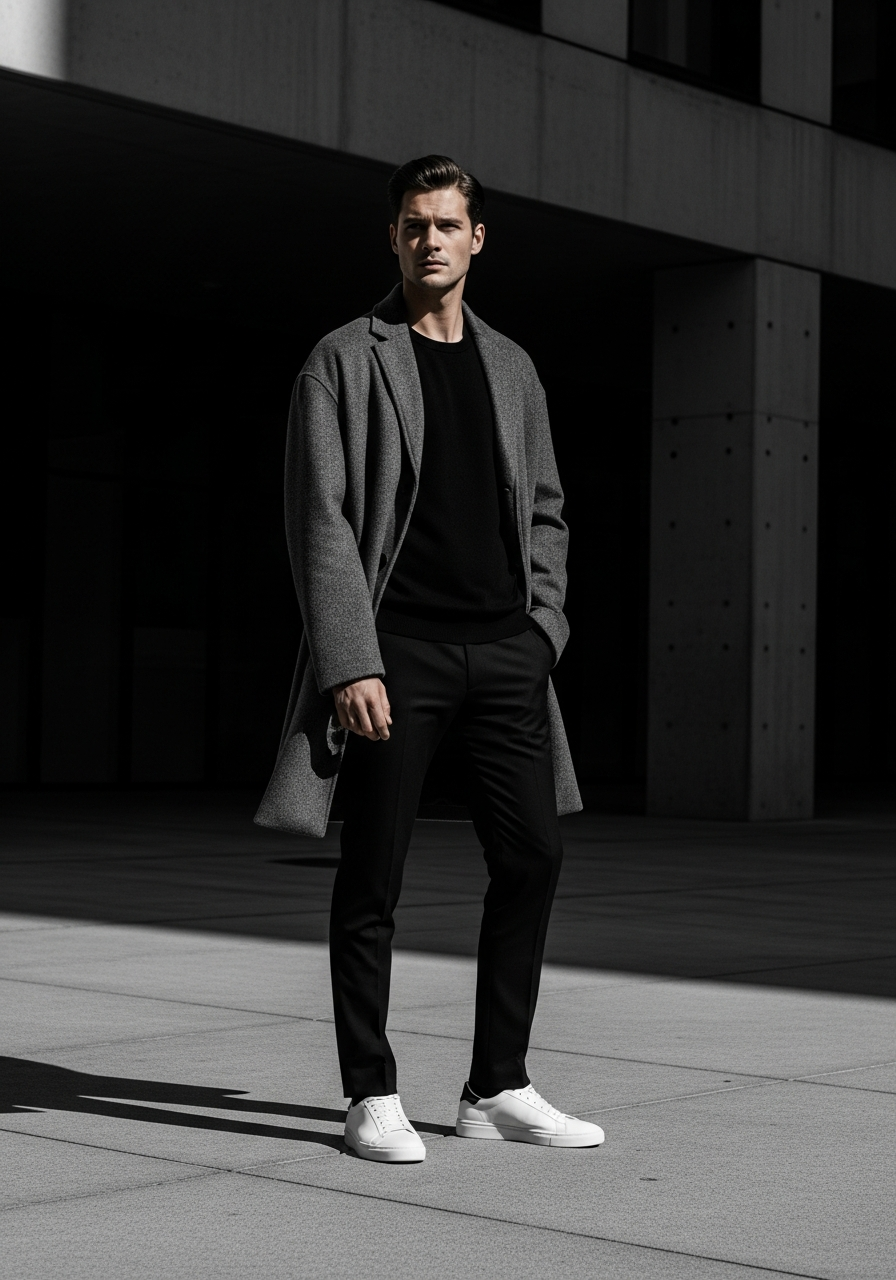
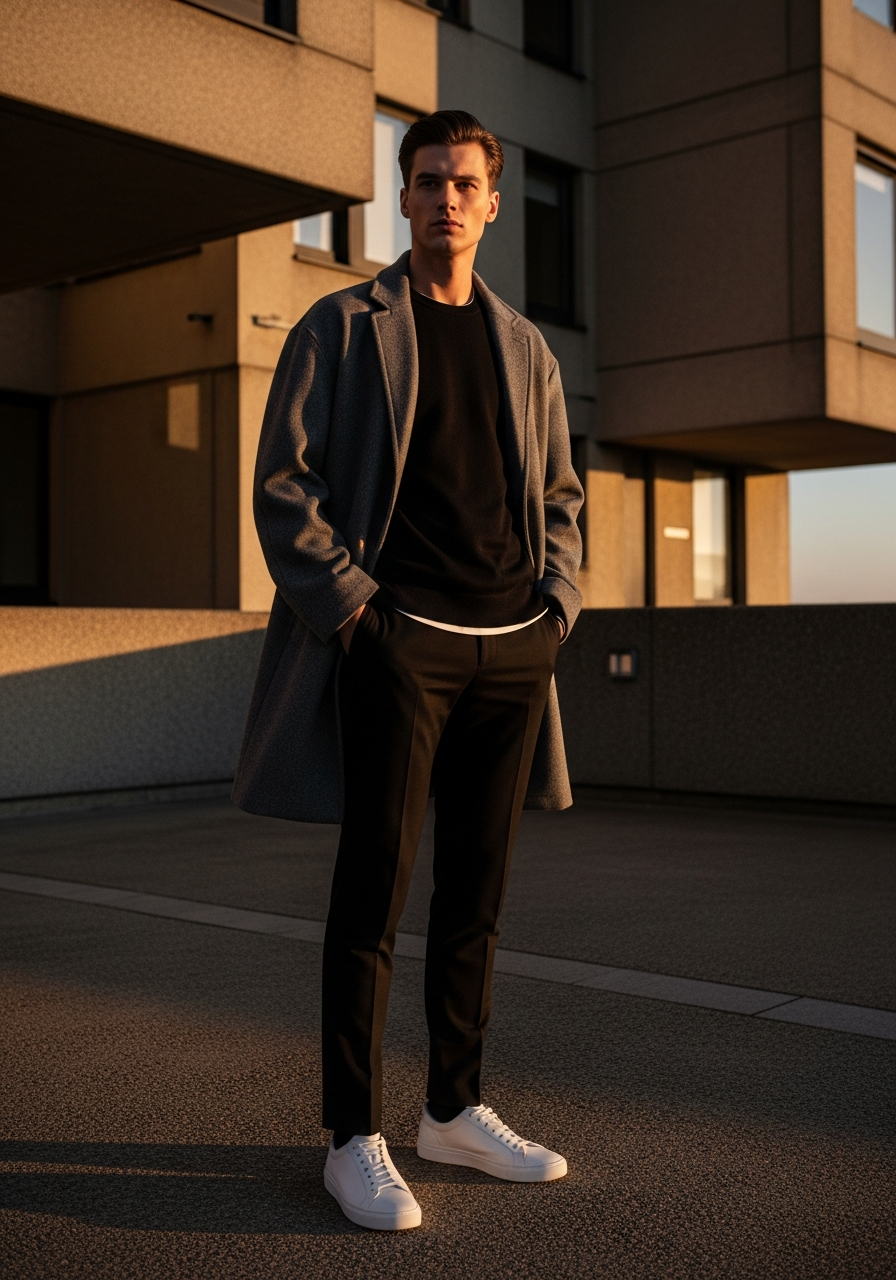
Update and add unique images for all fashion looks
Add new hero images for fashion looks and update image paths in data.ts to ensure unique, gender-matched visuals for each look and trend.

Replit-Commit-Author: Agent
Replit-Commit-Session-Id: fa4448f2-ebfd-40db-b201-cb55ba4870be
Replit-Commit-Checkpoint-Type: full_checkpoint
Replit-Commit-Event-Id: e4869c19-dc95-4574-88b0-547713898e4e
Replit-Commit-Screenshot-Url: https://storage.googleapis.com/screenshot-production-us-central1/dc7c3da2-0d75-476b-899a-1533c7000a88/fa4448f2-ebfd-40db-b201-cb55ba4870be/usAbbhE
Replit-Helium-Checkpoint-Created: true

diff --git a/artifacts/mobile/constants/data.ts b/artifacts/mobile/constants/data.ts
@@ -137,7 +137,7 @@ export const TRENDS: Trend[] = [
   { id: "t3", name: "Vacation Luxe", description: "Resort wear redefined — flowing silks, premium linens, sun-kissed sophistication", image: require("../assets/images/look_vacation.png"), tags: ["Zimmermann", "Loro Piana", "silk", "linen"], vibe: "Mediterranean billionaire summer" },
   { id: "t4", name: "Techwear", description: "Functional futurism — technical fabrics, utility pockets, dark palette precision", image: require("../assets/images/look_techwear.png"), tags: ["Acronym", "Stone Island", "Arc'teryx", "cargo"], vibe: "Cyberpunk meets luxury utility" },
   { id: "t5", name: "Clean Minimal", description: "Negative space as luxury — monochromatic palettes, perfect proportions, no excess", image: require("../assets/images/hero_banner.png"), tags: ["The Row", "Jil Sander", "COS", "minimal"], vibe: "Silence is the loudest statement" },
-  { id: "t6", name: "Y2K Revival", description: "2000s nostalgia elevated — low-rise silhouettes, metallics, butterfly details", image: require("../assets/images/look_streetwear.png"), tags: ["Versace", "D&G", "Von Dutch", "metallic"], vibe: "Paris Hilton meets Dua Lipa" },
+  { id: "t6", name: "Y2K Revival", description: "2000s nostalgia elevated — low-rise silhouettes, metallics, butterfly details", image: require("../assets/images/looks/y2k_soiree_women.png"), tags: ["Versace", "D&G", "Von Dutch", "metallic"], vibe: "Paris Hilton meets Dua Lipa" },
 ];
 
 // ─── Looks ──────────────────────────────────────────────────────────────────
@@ -147,7 +147,7 @@ export const LOOKS: Look[] = [
     name: "Côte d'Azur Evening",
     description: "A masterclass in resort elegance — fluid silk jersey meets sculptural jewelry for a dinner that demands attention without trying.",
     occasion: "Evening", season: "Summer", estimatedPrice: 3200,
-    image: require("../assets/images/look_vacation.png"),
+    image: require("../assets/images/looks/cote_dazur_evening_women.png"),
     style: "Vacation Luxe", tags: ["evening", "resort", "summer"],
     pieces: [
       { id: "p1", name: "Silk Jersey Column Dress", brand: "The Row", price: 1890, category: "Dress", color: "Ivory", imageUrl: UNS("1515886657613-9f3515b0c78f"), purchaseUrl: "https://www.therow.com" },
@@ -160,7 +160,7 @@ export const LOOKS: Look[] = [
     name: "Old Money Weekend",
     description: "The art of looking effortless when everything is intentional. Heritage fabrics, quiet logos, and the confidence of old wealth.",
     occasion: "Casual", season: "Autumn", estimatedPrice: 2800,
-    image: require("../assets/images/look_old_money.png"),
+    image: require("../assets/images/looks/old_money_weekend_men.png"),
     style: "Old Money", tags: ["weekend", "casual", "autumn"],
     pieces: [
       { id: "p4", name: "Cashmere Polo Sweater", brand: "Loro Piana", price: 1200, category: "Top", color: "Camel", imageUrl: UNS("1521572163474-6864f9cf17ab"), purchaseUrl: "https://www.loropiana.com" },
@@ -174,7 +174,7 @@ export const LOOKS: Look[] = [
     name: "Urban Architect",
     description: "For the city that never sleeps and the man who never blends in. Technical precision meets downtown edge.",
     occasion: "Street", season: "Winter", estimatedPrice: 4100,
-    image: require("../assets/images/look_techwear.png"),
+    image: require("../assets/images/looks/urban_architect_men.png"),
     style: "Techwear", tags: ["urban", "street", "winter"],
     pieces: [
       { id: "p8", name: "GORE-TEX Shell Jacket", brand: "Acronym", price: 1890, category: "Outerwear", color: "Black", imageUrl: UNS("1539008835657-9e8e9680c956"), purchaseUrl: "https://www.acrnm.com" },
@@ -188,7 +188,7 @@ export const LOOKS: Look[] = [
     name: "Galerie Opening",
     description: "Art world royalty. Where minimalist fashion becomes the canvas and the collector's eye speaks through restraint.",
     occasion: "Cultural", season: "All Season", estimatedPrice: 5600,
-    image: require("../assets/images/hero_banner.png"),
+    image: require("../assets/images/looks/galerie_opening_women.png"),
     style: "Clean Minimal", tags: ["art", "gallery", "minimal"],
     pieces: [
       { id: "p13", name: "Wide-Leg Wool Trouser", brand: "Jil Sander", price: 890, category: "Bottom", color: "Ivory", imageUrl: UNS("1552902865-b72c031ac5ea"), purchaseUrl: "https://www.jilsander.com" },
@@ -202,7 +202,7 @@ export const LOOKS: Look[] = [
     name: "Luxury Streetwear Icon",
     description: "Where the block meets the runway. Maximum drip, minimum effort, all designer.",
     occasion: "Street", season: "Spring", estimatedPrice: 3800,
-    image: require("../assets/images/look_streetwear.png"),
+    image: require("../assets/images/looks/luxury_streetwear_icon_men.png"),
     style: "Luxury Streetwear", tags: ["street", "spring", "logo"],
     pieces: [
       { id: "p18", name: "Logo Hoodie", brand: "Balenciaga", price: 890, category: "Top", color: "Black", imageUrl: UNS("1556821840-3a63f15732ce"), purchaseUrl: "https://www.balenciaga.com" },
@@ -216,7 +216,7 @@ export const LOOKS: Look[] = [
     name: "Y2K Soirée",
     description: "The early 2000s never looked this good. Low-rise sophistication with maximalist confidence.",
     occasion: "Party", season: "Summer", estimatedPrice: 2400,
-    image: require("../assets/images/look_streetwear.png"),
+    image: require("../assets/images/looks/y2k_soiree_women.png"),
     style: "Y2K Revival", tags: ["party", "y2k", "metallic"],
     pieces: [
       { id: "p23", name: "Crystal Mini Skirt", brand: "Versace", price: 1200, category: "Bottom", color: "Gold", imageUrl: UNS("1515886657613-9f3515b0c78f"), purchaseUrl: "https://www.versace.com" },
@@ -229,7 +229,7 @@ export const LOOKS: Look[] = [
     name: "Parisian Chic",
     description: "Effortless French sophistication — tailored silhouettes, neutral tones, luxurious fabrics with zero excess.",
     occasion: "Casual", season: "Spring", estimatedPrice: 3200,
-    image: require("../assets/images/look_old_money.png"),
+    image: require("../assets/images/looks/parisian_chic_women.png"),
     style: "Old Money", tags: ["french", "minimal", "chic"],
     pieces: [
       { id: "p26", name: "Silk Slip Dress", brand: "Sandro", price: 380, category: "Dress", color: "Champagne", imageUrl: UNS("1515886657613-9f3515b0c78f"), purchaseUrl: "https://www.sandro-paris.com" },
@@ -242,7 +242,7 @@ export const LOOKS: Look[] = [
     name: "Power Dressing",
     description: "Command any room. Structured shoulders, bold tailoring, Italian leather — authority made wearable.",
     occasion: "Work", season: "All Season", estimatedPrice: 4800,
-    image: require("../assets/images/look_old_money.png"),
+    image: require("../assets/images/looks/power_dressing_women.png"),
     style: "Business", tags: ["work", "power", "tailored"],
     pieces: [
       { id: "p29", name: "Double-Breasted Suit", brand: "Balmain", price: 2800, category: "Outerwear", color: "Black", imageUrl: UNS("1507003211169-0a1dd7228f2d"), purchaseUrl: "https://www.balmain.com" },
@@ -256,7 +256,7 @@ export const LOOKS: Look[] = [
     name: "Resort Billionaire",
     description: "Mediterranean money — silk kaftans, handwoven hats, zero logos, maximum presence.",
     occasion: "Resort", season: "Summer", estimatedPrice: 5600,
-    image: require("../assets/images/look_vacation.png"),
+    image: require("../assets/images/looks/resort_billionaire_women.png"),
     style: "Vacation Luxe", tags: ["resort", "summer", "luxury"],
     pieces: [
       { id: "p33", name: "Cashmere Kaftan", brand: "Loro Piana", price: 3200, category: "Dress", color: "Sand", imageUrl: UNS("1515886657613-9f3515b0c78f"), purchaseUrl: "https://www.loropiana.com" },
@@ -269,7 +269,7 @@ export const LOOKS: Look[] = [
     name: "Dark Academia",
     description: "Books, tweed, and old libraries. Rich cognac leathers, plaid layers, and intellectual luxury.",
     occasion: "Casual", season: "Autumn", estimatedPrice: 2900,
-    image: require("../assets/images/look_old_money.png"),
+    image: require("../assets/images/looks/dark_academia_men.png"),
     style: "Old Money", tags: ["academic", "autumn", "tweed"],
     pieces: [
       { id: "p36", name: "Harris Tweed Blazer", brand: "Ralph Lauren", price: 1200, category: "Outerwear", color: "Brown Plaid", imageUrl: UNS("1507003211169-0a1dd7228f2d"), purchaseUrl: "https://www.ralphlauren.com" },
@@ -283,7 +283,7 @@ export const LOOKS: Look[] = [
     name: "Gala Glamour",
     description: "Black-tie redefined — sculptural silhouettes, jewel-toned satins, statement jewellery, all eyes on you.",
     occasion: "Evening", season: "All Season", estimatedPrice: 7400,
-    image: require("../assets/images/hero_banner.png"),
+    image: require("../assets/images/looks/gala_glamour_women.png"),
     style: "Avant-garde", tags: ["gala", "evening", "glamour"],
     pieces: [
       { id: "p40", name: "Column Gown", brand: "Valentino Haute Couture", price: 4800, category: "Dress", color: "Crimson", imageUrl: UNS("1566174053879-31528523f8ae"), purchaseUrl: "https://www.valentino.com" },
@@ -296,7 +296,7 @@ export const LOOKS: Look[] = [
     name: "Urban Minimalist",
     description: "City uniform perfected — monochrome stacks, architectural cuts, premium basics that signal taste.",
     occasion: "Street", season: "All Season", estimatedPrice: 2100,
-    image: require("../assets/images/look_techwear.png"),
+    image: require("../assets/images/looks/urban_minimalist_men.png"),
     style: "Clean Minimal", tags: ["urban", "minimal", "monochrome"],
     pieces: [
       { id: "p43", name: "Oversized Wool Coat", brand: "COS", price: 380, category: "Outerwear", color: "Charcoal", imageUrl: UNS("1539008835657-9e8e9680c956"), purchaseUrl: "https://www.cosstores.com" },
